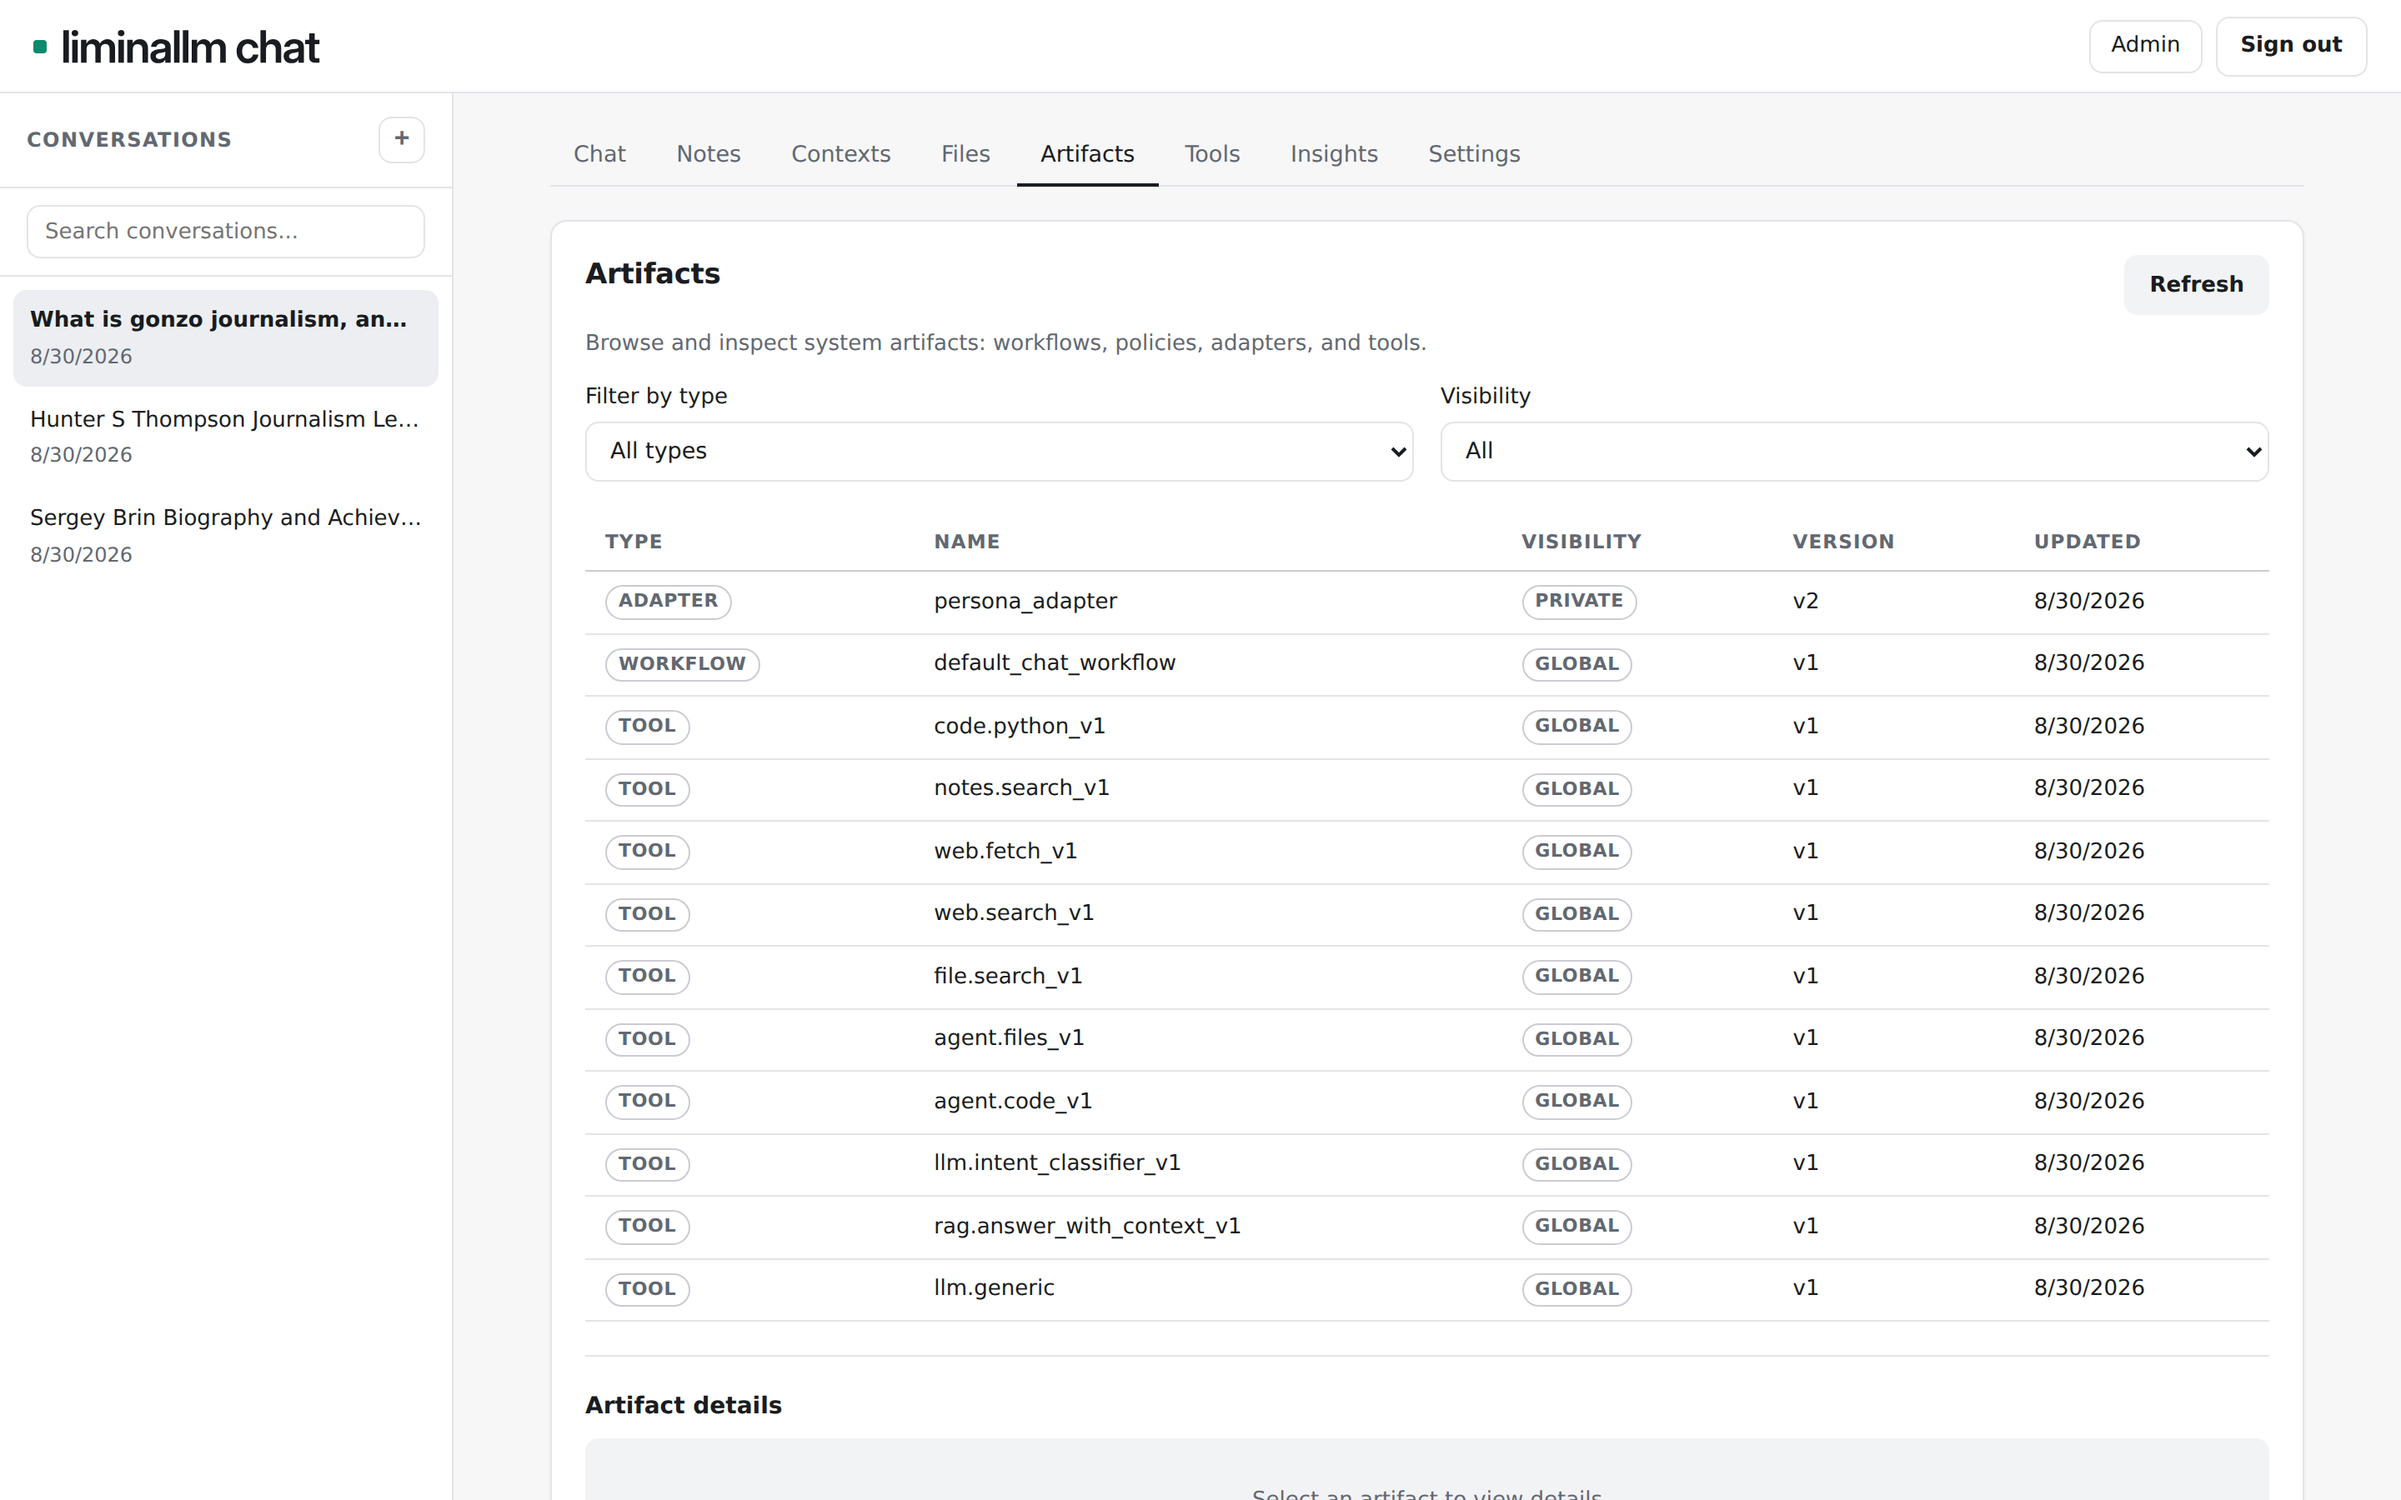
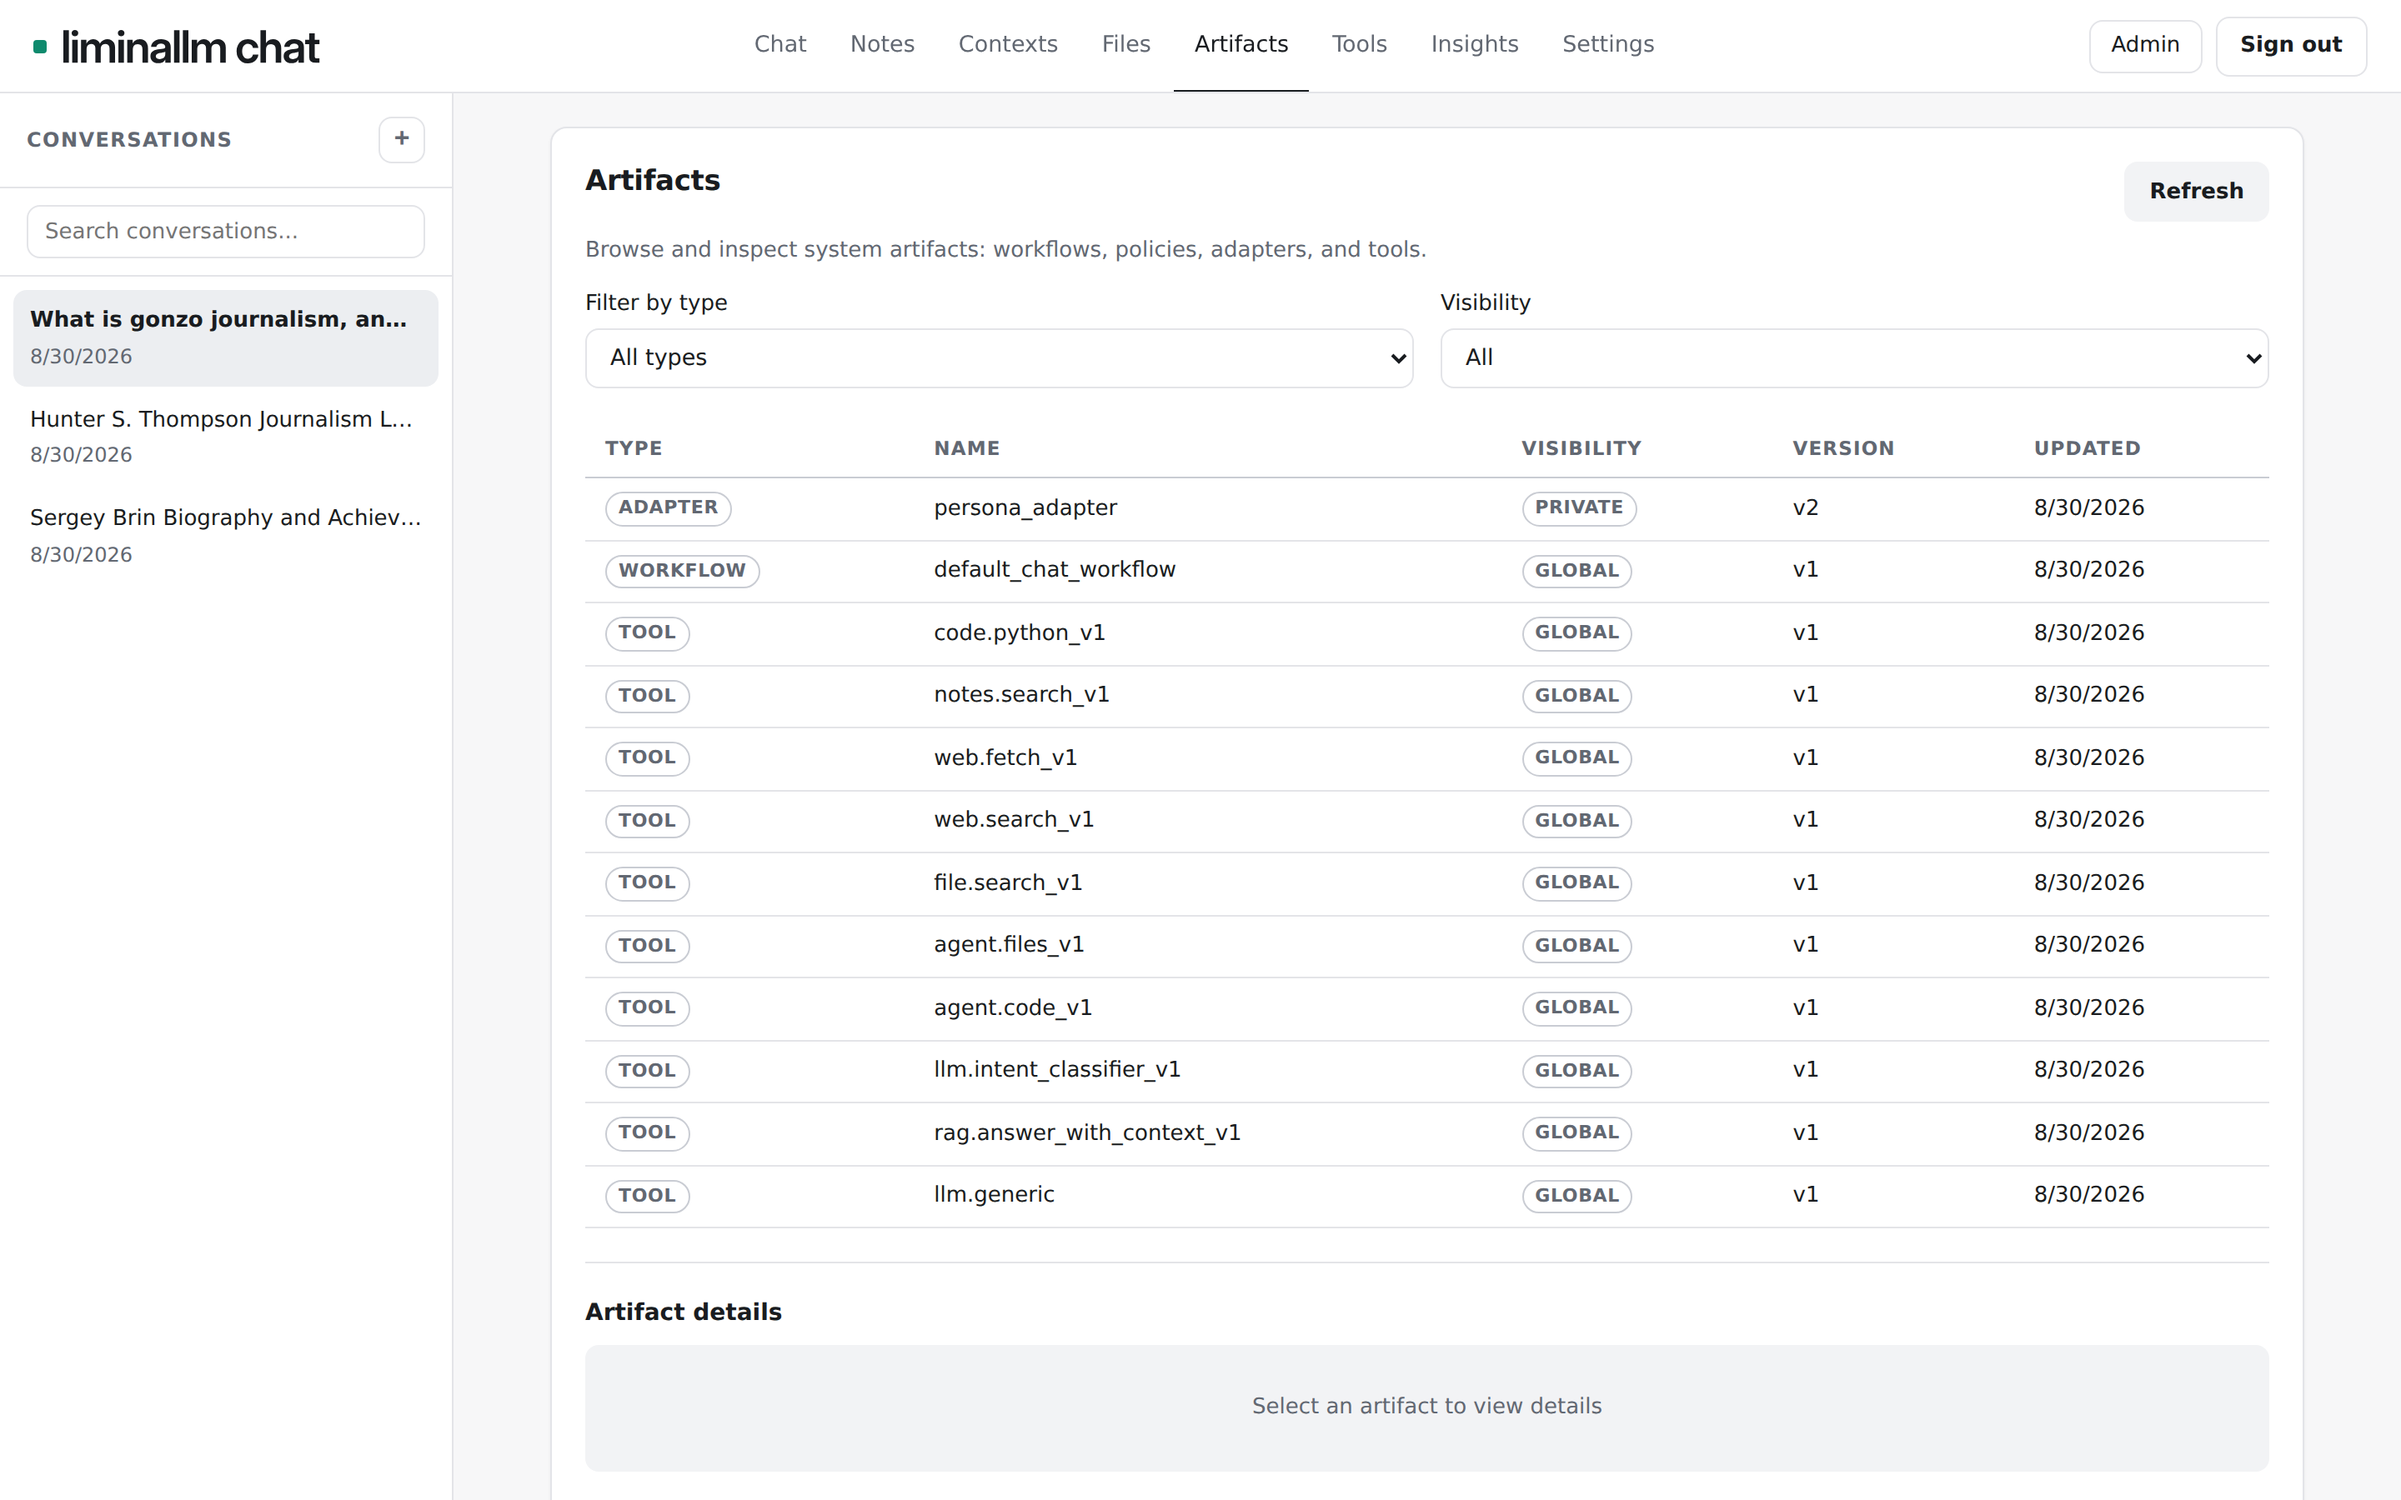
Give the chat column back the vertical space its chrome was spending
Measured on a 1440x900 viewport, the first message started 207px down on
an empty thread and about 270px down on a loaded one: roughly a quarter of
the viewport spent before any content. Three changes, no new concepts.

The main navigation moves into the top bar. The bar was 56px of mostly
empty space between the wordmark and two buttons, and the tab row below it
cost another 36px plus its own margin and rule to say the same thing. The
nav stretches to the bar's height so the active tab's underline lands on
the bar's own bottom border.

The conversation title moves onto the controls row. It wrapped to a line of
its own once a title was long enough, spending a whole row on a label that
the sidebar already shows in full; it truncates now instead.

The panel's top padding and the message list's stacked at the same seam, so
one of them is enough: 20px and 18px become 12px and 6px.

Measured after: the first message starts at 143px, and the header no longer
wraps, so a loaded thread gains more than the empty one. The screenshots in
the README are recaptured from the new layout.

Claude-Session: https://claude.ai/code/session_01DQtPsg9YSUXaStGXyUjozA

diff --git a/frontend/index.html b/frontend/index.html
@@ -24,6 +24,19 @@
             <path fill="currentColor" d="M364 -1490V0H112V-1490ZM516 0V-1056H769V0ZM642 -1213Q577 -1213 534 -1254Q491 -1296 491 -1357Q491 -1418 534 -1459Q577 -1500 641 -1500Q706 -1500 750 -1459Q793 -1418 793 -1356Q793 -1295 750 -1254Q706 -1213 642 -1213ZM920 0V-1056H1165V-826H1146Q1175 -910 1225 -966Q1276 -1022 1343 -1050Q1409 -1077 1482 -1077Q1604 -1077 1693 -1007Q1781 -938 1800 -826H1768Q1789 -901 1839 -958Q1890 -1014 1963 -1046Q2036 -1077 2123 -1077Q2223 -1077 2303 -1034Q2383 -991 2430 -906Q2476 -821 2476 -697V0H2223V-661Q2223 -765 2166 -814Q2109 -863 2028 -863Q1964 -863 1918 -836Q1872 -808 1846 -760Q1821 -712 1821 -648V0H1575V-673Q1575 -759 1522 -811Q1468 -863 1384 -863Q1327 -863 1279 -836Q1231 -810 1202 -758Q1173 -706 1173 -630V0ZM2628 0V-1056H2880V0ZM2754 -1213Q2689 -1213 2646 -1254Q2603 -1296 2603 -1357Q2603 -1418 2646 -1459Q2689 -1500 2753 -1500Q2818 -1500 2861 -1459Q2905 -1418 2905 -1356Q2905 -1295 2861 -1254Q2818 -1213 2754 -1213ZM3285 -597V0H3032V-1056H3280V-787H3231Q3282 -929 3374 -1003Q3467 -1077 3605 -1077Q3716 -1077 3800 -1030Q3885 -982 3933 -889Q3981 -796 3981 -660V0H3728V-620Q3728 -736 3673 -796Q3617 -856 3516 -856Q3449 -856 3397 -829Q3345 -802 3315 -745Q3285 -688 3285 -597ZM4456 17Q4351 17 4268 -18Q4186 -53 4138 -124Q4091 -195 4091 -300Q4091 -390 4125 -449Q4159 -507 4217 -542Q4275 -577 4350 -595Q4425 -614 4506 -622Q4604 -633 4661 -642Q4719 -650 4743 -667Q4768 -683 4768 -719V-727Q4768 -773 4745 -807Q4722 -842 4679 -862Q4636 -881 4575 -881Q4514 -881 4468 -862Q4422 -842 4394 -807Q4367 -773 4363 -728H4121Q4127 -833 4184 -911Q4241 -990 4342 -1034Q4443 -1077 4581 -1077Q4684 -1077 4765 -1053Q4846 -1028 4903 -981Q4959 -934 4989 -868Q5018 -802 5018 -720V0H4770V-149H4766Q4742 -102 4702 -65Q4662 -27 4602 -5Q4542 17 4456 17ZM4518 -170Q4600 -170 4656 -200Q4712 -230 4741 -280Q4770 -330 4770 -391V-505Q4758 -498 4735 -491Q4712 -484 4681 -478Q4649 -471 4612 -465Q4576 -459 4537 -453Q4483 -446 4437 -428Q4392 -411 4364 -380Q4337 -350 4337 -302Q4337 -261 4359 -231Q4382 -201 4422 -186Q4463 -170 4518 -170ZM5422 -1490V0H5170V-1490ZM5827 -1490V0H5574V-1490ZM5978 0V-1056H6223V-826H6204Q6233 -910 6283 -966Q6334 -1022 6400 -1050Q6467 -1077 6540 -1077Q6662 -1077 6750 -1007Q6839 -938 6858 -826H6826Q6847 -901 6897 -958Q6948 -1014 7020 -1046Q7093 -1077 7180 -1077Q7280 -1077 7361 -1034Q7441 -991 7487 -906Q7534 -821 7534 -697V0H7281V-661Q7281 -765 7224 -814Q7167 -863 7086 -863Q7022 -863 6976 -836Q6930 -808 6904 -760Q6879 -712 6879 -648V0H6633V-673Q6633 -759 6580 -811Q6526 -863 6442 -863Q6385 -863 6337 -836Q6289 -810 6260 -758Q6231 -706 6231 -630V0ZM8544 24Q8390 24 8274 -46Q8157 -116 8093 -240Q8028 -364 8028 -527Q8028 -690 8093 -815Q8157 -939 8274 -1010Q8390 -1080 8544 -1080Q8644 -1080 8728 -1050Q8812 -1021 8875 -967Q8938 -913 8977 -840Q9015 -766 9024 -678H8776Q8769 -721 8751 -756Q8733 -791 8704 -816Q8675 -842 8636 -856Q8597 -870 8547 -870Q8465 -870 8406 -828Q8346 -786 8315 -709Q8283 -632 8283 -527Q8283 -423 8315 -346Q8346 -270 8406 -228Q8465 -186 8547 -186Q8597 -186 8635 -200Q8673 -213 8701 -239Q8729 -264 8747 -300Q8765 -336 8774 -379H9024Q9017 -292 8979 -219Q8941 -145 8877 -91Q8813 -36 8729 -6Q8644 24 8544 24ZM9373 -597V0H9120V-1490H9373V-787H9319Q9370 -929 9463 -1003Q9555 -1077 9693 -1077Q9804 -1077 9889 -1030Q9973 -982 10021 -889Q10069 -796 10069 -660V0H9817V-620Q9817 -736 9761 -796Q9705 -856 9604 -856Q9538 -856 9485 -829Q9433 -802 9403 -745Q9373 -688 9373 -597ZM10544 17Q10439 17 10357 -18Q10274 -53 10227 -124Q10179 -195 10179 -300Q10179 -390 10213 -449Q10247 -507 10305 -542Q10363 -577 10438 -595Q10513 -614 10594 -622Q10692 -633 10750 -642Q10807 -650 10832 -667Q10856 -683 10856 -719V-727Q10856 -773 10833 -807Q10810 -842 10767 -862Q10724 -881 10663 -881Q10603 -881 10556 -862Q10510 -842 10483 -807Q10455 -773 10451 -728H10209Q10215 -833 10272 -911Q10329 -990 10430 -1034Q10531 -1077 10669 -1077Q10772 -1077 10853 -1053Q10935 -1028 10991 -981Q11048 -934 11077 -868Q11106 -802 11106 -720V0H10859V-149H10855Q10830 -102 10790 -65Q10750 -27 10690 -5Q10630 17 10544 17ZM10606 -170Q10688 -170 10745 -200Q10801 -230 10829 -280Q10858 -330 10858 -391V-505Q10846 -498 10823 -491Q10800 -484 10769 -478Q10737 -471 10701 -465Q10664 -459 10625 -453Q10571 -446 10526 -428Q10480 -411 10453 -380Q10425 -350 10425 -302Q10425 -261 10447 -231Q10470 -201 10510 -186Q10551 -170 10606 -170ZM11816 -1056V-853H11163V-1056ZM11347 -1344H11600V-303Q11600 -247 11623 -225Q11646 -203 11708 -203Q11732 -203 11764 -203Q11796 -203 11816 -203V0Q11789 0 11747 0Q11705 0 11663 0Q11502 0 11424 -65Q11347 -131 11347 -266Z"/>
           </svg>
         </div>
+        <!-- Main navigation rides the top bar: the bar is 56px of mostly
+             empty space, and a second full-width row below it cost the chat
+             column a tenth of the viewport to say the same thing. -->
+        <nav class="tab-nav" id="main-tabs" aria-label="Main navigation">
+          <button class="tab-btn active" data-tab="chat-tab" aria-selected="true">Chat</button>
+          <button class="tab-btn" data-tab="notes-tab" aria-selected="false">Notes</button>
+          <button class="tab-btn" data-tab="contexts-tab" aria-selected="false">Contexts</button>
+          <button class="tab-btn" data-tab="files-tab" aria-selected="false">Files</button>
+          <button class="tab-btn" data-tab="artifacts-tab" aria-selected="false">Artifacts</button>
+          <button class="tab-btn" data-tab="tools-tab" aria-selected="false">Tools</button>
+          <button class="tab-btn" data-tab="insights-tab" aria-selected="false">Insights</button>
+          <button class="tab-btn" data-tab="settings-tab" aria-selected="false">Settings</button>
+        </nav>
         <div class="bar-actions">
           <a href="/admin" id="admin-link" aria-label="Admin console">Admin</a>
           <button id="logout" class="ghost">Sign out</button>
@@ -174,18 +187,6 @@
 
             <div id="error-banner" role="alert"></div>
           </section>
-
-          <!-- Tab Navigation -->
-          <nav class="tab-nav" id="main-tabs" aria-label="Main navigation">
-            <button class="tab-btn active" data-tab="chat-tab" aria-selected="true">Chat</button>
-            <button class="tab-btn" data-tab="notes-tab" aria-selected="false">Notes</button>
-            <button class="tab-btn" data-tab="contexts-tab" aria-selected="false">Contexts</button>
-            <button class="tab-btn" data-tab="files-tab" aria-selected="false">Files</button>
-            <button class="tab-btn" data-tab="artifacts-tab" aria-selected="false">Artifacts</button>
-            <button class="tab-btn" data-tab="tools-tab" aria-selected="false">Tools</button>
-            <button class="tab-btn" data-tab="insights-tab" aria-selected="false">Insights</button>
-            <button class="tab-btn" data-tab="settings-tab" aria-selected="false">Settings</button>
-          </nav>
 
           <!-- Chat Tab -->
           <section class="tab-panel active" id="chat-tab" aria-label="Chat workspace">

diff --git a/frontend/styles.css b/frontend/styles.css
@@ -308,15 +308,28 @@ body {
 }
 
 /* Tab Navigation */
+/* The nav sits in the top bar and stretches to its full height, so the
+   active tab's underline lands on the bar's own bottom border instead of
+   floating inside it. The bar supplies the rule; the nav does not. */
 .tab-nav {
   display: flex;
   gap: 2px;
-  border-bottom: 1px solid var(--border);
-  margin-bottom: 20px;
+  align-self: stretch;
+  align-items: stretch;
+  min-width: 0;
+  overflow-x: auto;
+  scrollbar-width: none;
+}
+
+.tab-nav::-webkit-scrollbar {
+  display: none;
 }
 
 .tab-btn {
-  padding: 9px 14px;
+  display: flex;
+  align-items: center;
+  white-space: nowrap;
+  padding: 0 12px;
   border: none;
   border-bottom: 2px solid transparent;
   margin-bottom: -1px;
@@ -563,23 +576,45 @@ button.minor:hover {
 }
 
 /* Chat panel — a single reading column, measured like a magazine page */
+/* The panel's own padding and the message list's stacked at the same seam.
+   One of them is enough above the first message. */
 .chat-panel {
   display: flex;
   flex-direction: column;
-  min-height: calc(100vh - 220px);
+  min-height: calc(100vh - 160px);
   gap: 10px;
+  padding-top: 12px;
   max-width: 860px;
   margin: 0 auto;
   width: 100%;
 }
 
+/* The title and the thread controls share one row. Wrapping put the title
+   on a line of its own, which spent a row of the chat column on a label
+   the controls already sit beside; the title truncates instead. */
 .conversation-header {
   display: flex;
   align-items: center;
   justify-content: space-between;
   gap: 10px;
-  flex-wrap: wrap;
+  flex-wrap: nowrap;
   margin-bottom: 8px;
+}
+
+.conversation-header .badge {
+  min-width: 0;
+  overflow: hidden;
+}
+
+.conversation-header .badge #conversation-label {
+  overflow: hidden;
+  text-overflow: ellipsis;
+  white-space: nowrap;
+}
+
+.conversation-header .pill-row {
+  flex: 0 0 auto;
+  flex-wrap: nowrap;
 }
 
 .badge {
@@ -605,7 +640,7 @@ button.minor:hover {
 #messages {
   flex: 1;
   overflow-y: auto;
-  padding: 18px 4px 24px;
+  padding: 6px 4px 24px;
   display: flex;
   flex-direction: column;
   gap: 26px;
